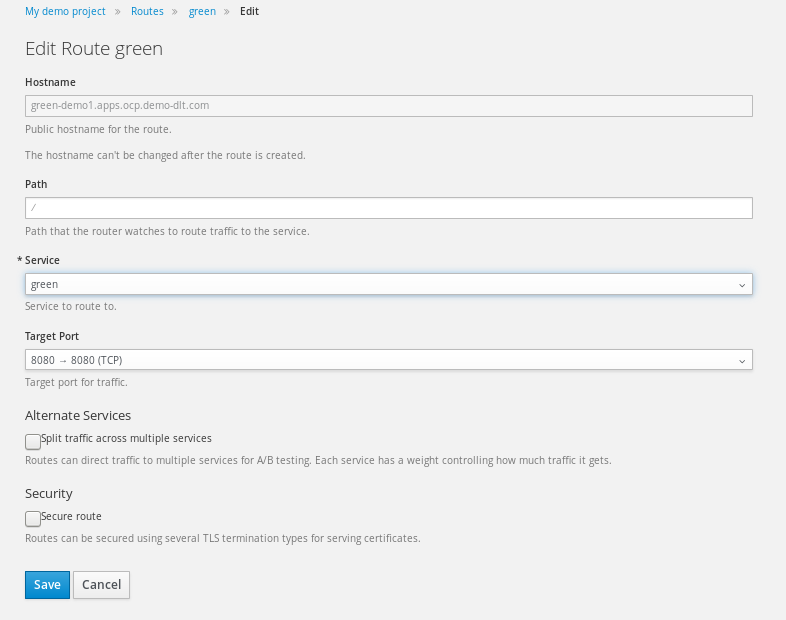
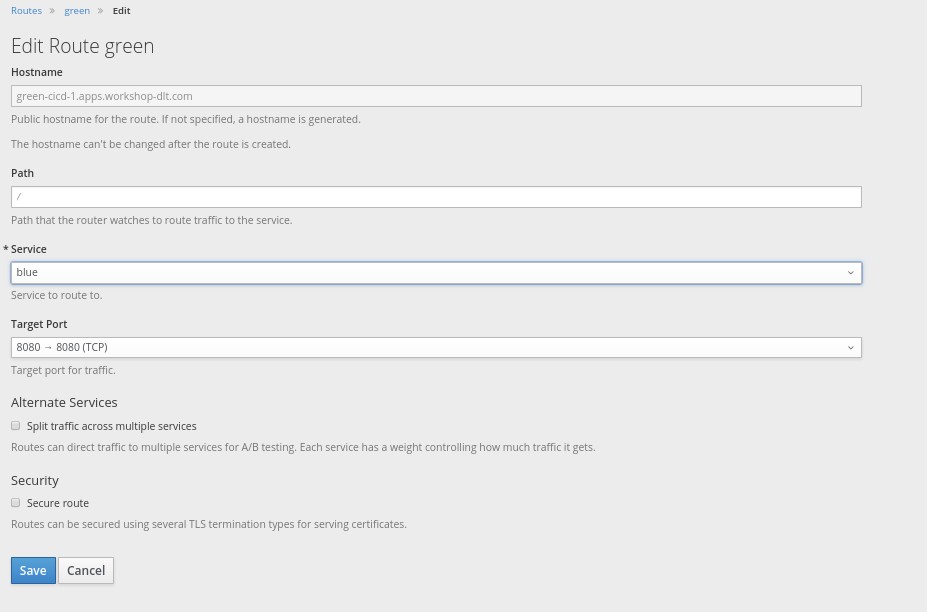
new images for labs 9 and 10

diff --git a/content/workshops/openshift_v3_7_101/lab4-devmanage.md b/content/workshops/openshift_v3_7_101/lab4-devmanage.md
@@ -16,7 +16,7 @@ From the previous lab you should have the DC Metro Maps web app running in OpenS
 Only if you don't already have it running, add it with the following steps.
 {{% /alert %}}
 
-> <i class="fa fa-terminal"></i> Goto the terminal and type these commands:
+<i class="fa fa-terminal"></i> Go to the terminal and type these commands:
 
 ```
 $ oc new-app --name=dc-metro-map https://github.com/DLT-Solutions-JBoss/openshift-workshops.git --context-dir=dc-metro-map
@@ -30,7 +30,7 @@ There is no more ambiguity or confusion about where the app came from.  OpenShif
 {{% panel "CLI Steps" %}}
 
 <blockquote>
-<i class="fa fa-terminal"></i> Goto the terminal and type the following:
+<i class="fa fa-terminal"></i> Go to the terminal and type the following:
 </blockquote>
 
 ```
@@ -64,6 +64,7 @@ Because we built this app using S2I, we get to see the details about the build -
 <blockquote>
 <i class="fa fa-terminal"></i> Type the following to find out more about our bc:
 </blockquote>
+
 ```
 $ oc describe bc/dc-metro-map
 ```
@@ -73,6 +74,7 @@ Notice the information about the configuration of how this app gets built.  In p
 <blockquote>
 <i class="fa fa-terminal"></i> Type the following:
 </blockquote>
+
 ```
 $ oc describe build/dc-metro-map-1
 ```
@@ -140,6 +142,7 @@ In the S2I lab we looked at a build log to inspect the process of turning source
 <blockquote>
 <i class="fa fa-terminal"></i> Goto the terminal and type the following:
 </blockquote>
+
 ```
 $ oc get pods
 ```
@@ -149,6 +152,7 @@ This is going to show basic details for all pods in this project (including the 
 <blockquote>
 <i class="fa fa-terminal"></i> Goto the terminal and type the following (replacing the POD ID with your pod's ID):
 </blockquote>
+
 ```
 $ oc logs [POD NAME]
 ```
@@ -195,6 +199,7 @@ Let's have a little fun.  The app has some easter eggs that get triggered when c
 <blockquote>
 <i class="fa fa-terminal"></i> Goto the terminal and type the following:
 </blockquote>
+
 ```
 $ oc env dc/dc-metro-map -e RAINBOW=true
 ```
@@ -265,8 +270,9 @@ There are situations when you might want to jump into a running pod, and OpenShi
 {{% panel "CLI Steps" %}}
 
 <blockquote>
-<i class="fa fa-terminal"></i> Goto the terminal and type the following:
+<i class="fa fa-terminal"></i> Go to the terminal and type the following:
 </blockquote>
+
 ```
 $ oc get pods
 ```
@@ -317,7 +323,7 @@ That should return the **RAINBOW=true** matching the value that we set in the de
 {{< /panel_group >}}
 
 ## Good work, let's clean this up
-> <i class="fa fa-terminal"></i> Let's clean up all this to get ready for the next lab:
+<i class="fa fa-terminal"></i> Let's clean up all this to get ready for the next lab:
 
 ```
 $ oc delete all -l app=dc-metro-map

diff --git a/content/workshops/openshift_v3_7_101/lab9-bluegreen.md b/content/workshops/openshift_v3_7_101/lab9-bluegreen.md
@@ -12,8 +12,7 @@ When implementing continuous delivery for your software one very useful techniqu
 Before we get started with the Blue/Green deployment lab, lets clean up some of the projects from the previous lab. 
 
 ```
-$ oc delete all -l app=jenkins-ephemeral
-$ oc delete all -l app=nodejs-helloworld-sample
+$ oc delete all --all
 ```
 
 ## Lets deploy an application
@@ -21,7 +20,7 @@ To demonstrate Blue/Green deployments, we'll use a simple application that rende
 
 You should be comfortable deploying an app at this point, but here are the steps anyway:
 
-> <i class="fa fa-terminal"></i> Goto the terminal and type these commands:
+<i class="fa fa-terminal"></i> Goto the terminal and type these commands:
 
 ```
 $ oc new-app --name=green [your-project-repo-url] --context-dir=dc-metro-map
@@ -39,7 +38,7 @@ We can change the text labels indicated by name of a color. If you want to chang
 
 Use the same commands to deploy this new version of the app, but this time name the service "blue". No need to expose a new route -- we'll instead switch the "green" route to point to the "blue" service once we've verified it.
 
-> <i class="fa fa-terminal"></i> Goto the terminal and type these commands:
+<i class="fa fa-terminal"></i> Goto the terminal and type these commands:
 
 ```
 $ oc new-app --name=blue [your-project-repo-url] --context-dir=dc-metro-map
@@ -88,9 +87,13 @@ This will bring up the Route configuration yaml. Edit the element spec: to: name
 {{% /panel %}}
 {{< /panel_group >}}
 
-> This should be the result of your re-direction:
+>This should be the result of your re-direction:
 
 <img src="../images/ocp-lab-post-bluegreen-edit.png" width="900"><br/>
+
+>Clicking on the application url should expose the change in the Red Line label to Silver Line.
+
+<img src="../images/ocp-lab-post-bluegreen-edit_app.png" width="900"><br/>
 
 # Summary
 Pretty easy, right?

diff --git a/content/workshops/openshift_v3_7_101/lab3-s2i.md b/content/workshops/openshift_v3_7_101/lab3-s2i.md
@@ -51,19 +51,19 @@ Select the JavaScript menu option.
 Select the Node.js option.
 </blockquote>
 
-<img src="../images/ocp-lab-s2i-nodejs_information.png" width="900"><br/>
+<img src="../images/ocp-lab-s2i-nodejs_information.png" width="600"><br/>
 
 <blockquote>
 This dialog box informs you of the version and the OS being used for your Node.js application.  Click "Next".
 </blockquote>
 
-<img src="../images/ocp-lab-s2i-nodejs_configuration.png" width="900"><br/>
+<img src="../images/ocp-lab-s2i-nodejs_configuration.png" width="600"><br/>
 
 <blockquote>
 Select Version "6 --latest" from the Version dropdown list.  Click the "advanced options" link and you will be taken to the Node.js configuration web page within the OCP web Console.
 </blockquote>
 
-<img src="../images/ocp-lab-s2i-nodejs.png" width="900"><br/>
+<img src="../images/ocp-lab-s2i-nodejs.png" width="600"><br/>
 <p>
 The github repository URL is: https://github.com/DLT-Solutions-JBoss/openshift-workshops.git<br/>
 The github context-dir is: /dc-metro-map<br/>
